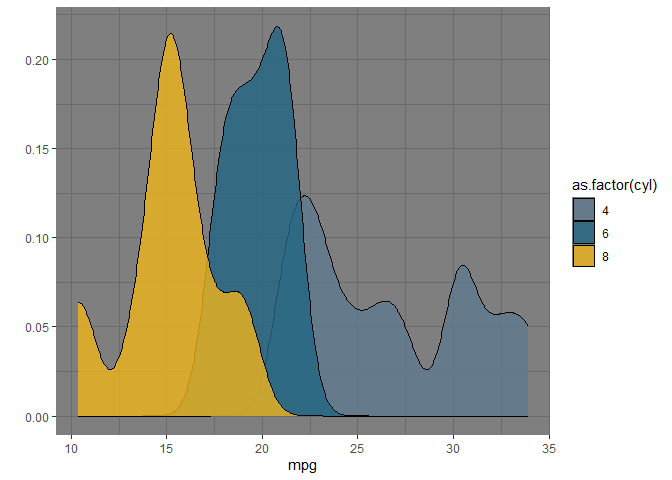
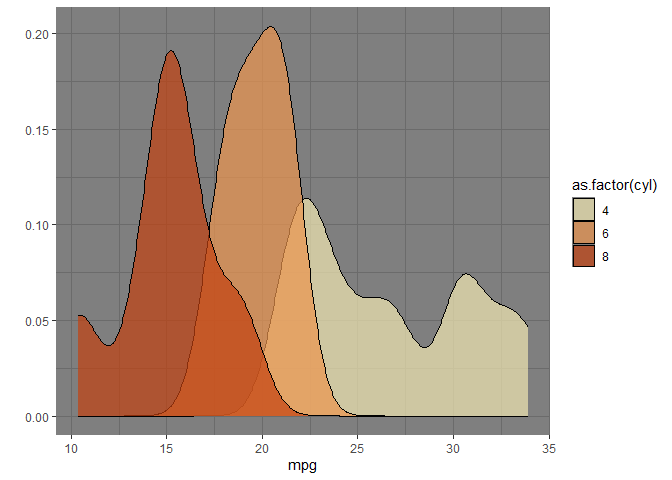
New examples

diff --git a/README.md b/README.md
@@ -45,8 +45,8 @@ ggplot(iris, aes(x = Sepal.Length, y = Petal.Length, color = Species, shape = Sp
 ``` r
 
 ggplot(mtcars, aes(x = mpg, fill = as.factor(cyl)))+
-  geom_density(alpha = 0.8, bw = 0.9)+
-  scale_fill_manual(values = SmashingPumpkins::pumpkins_palette("mellon_collie")[1:3])+
+  geom_density(alpha = 0.7, bw = 1.1)+
+  scale_fill_manual(values = SmashingPumpkins::pumpkins_palette("siamese_dream_light")[2:4])+
   ylab("")+
   theme_dark()
 ```
